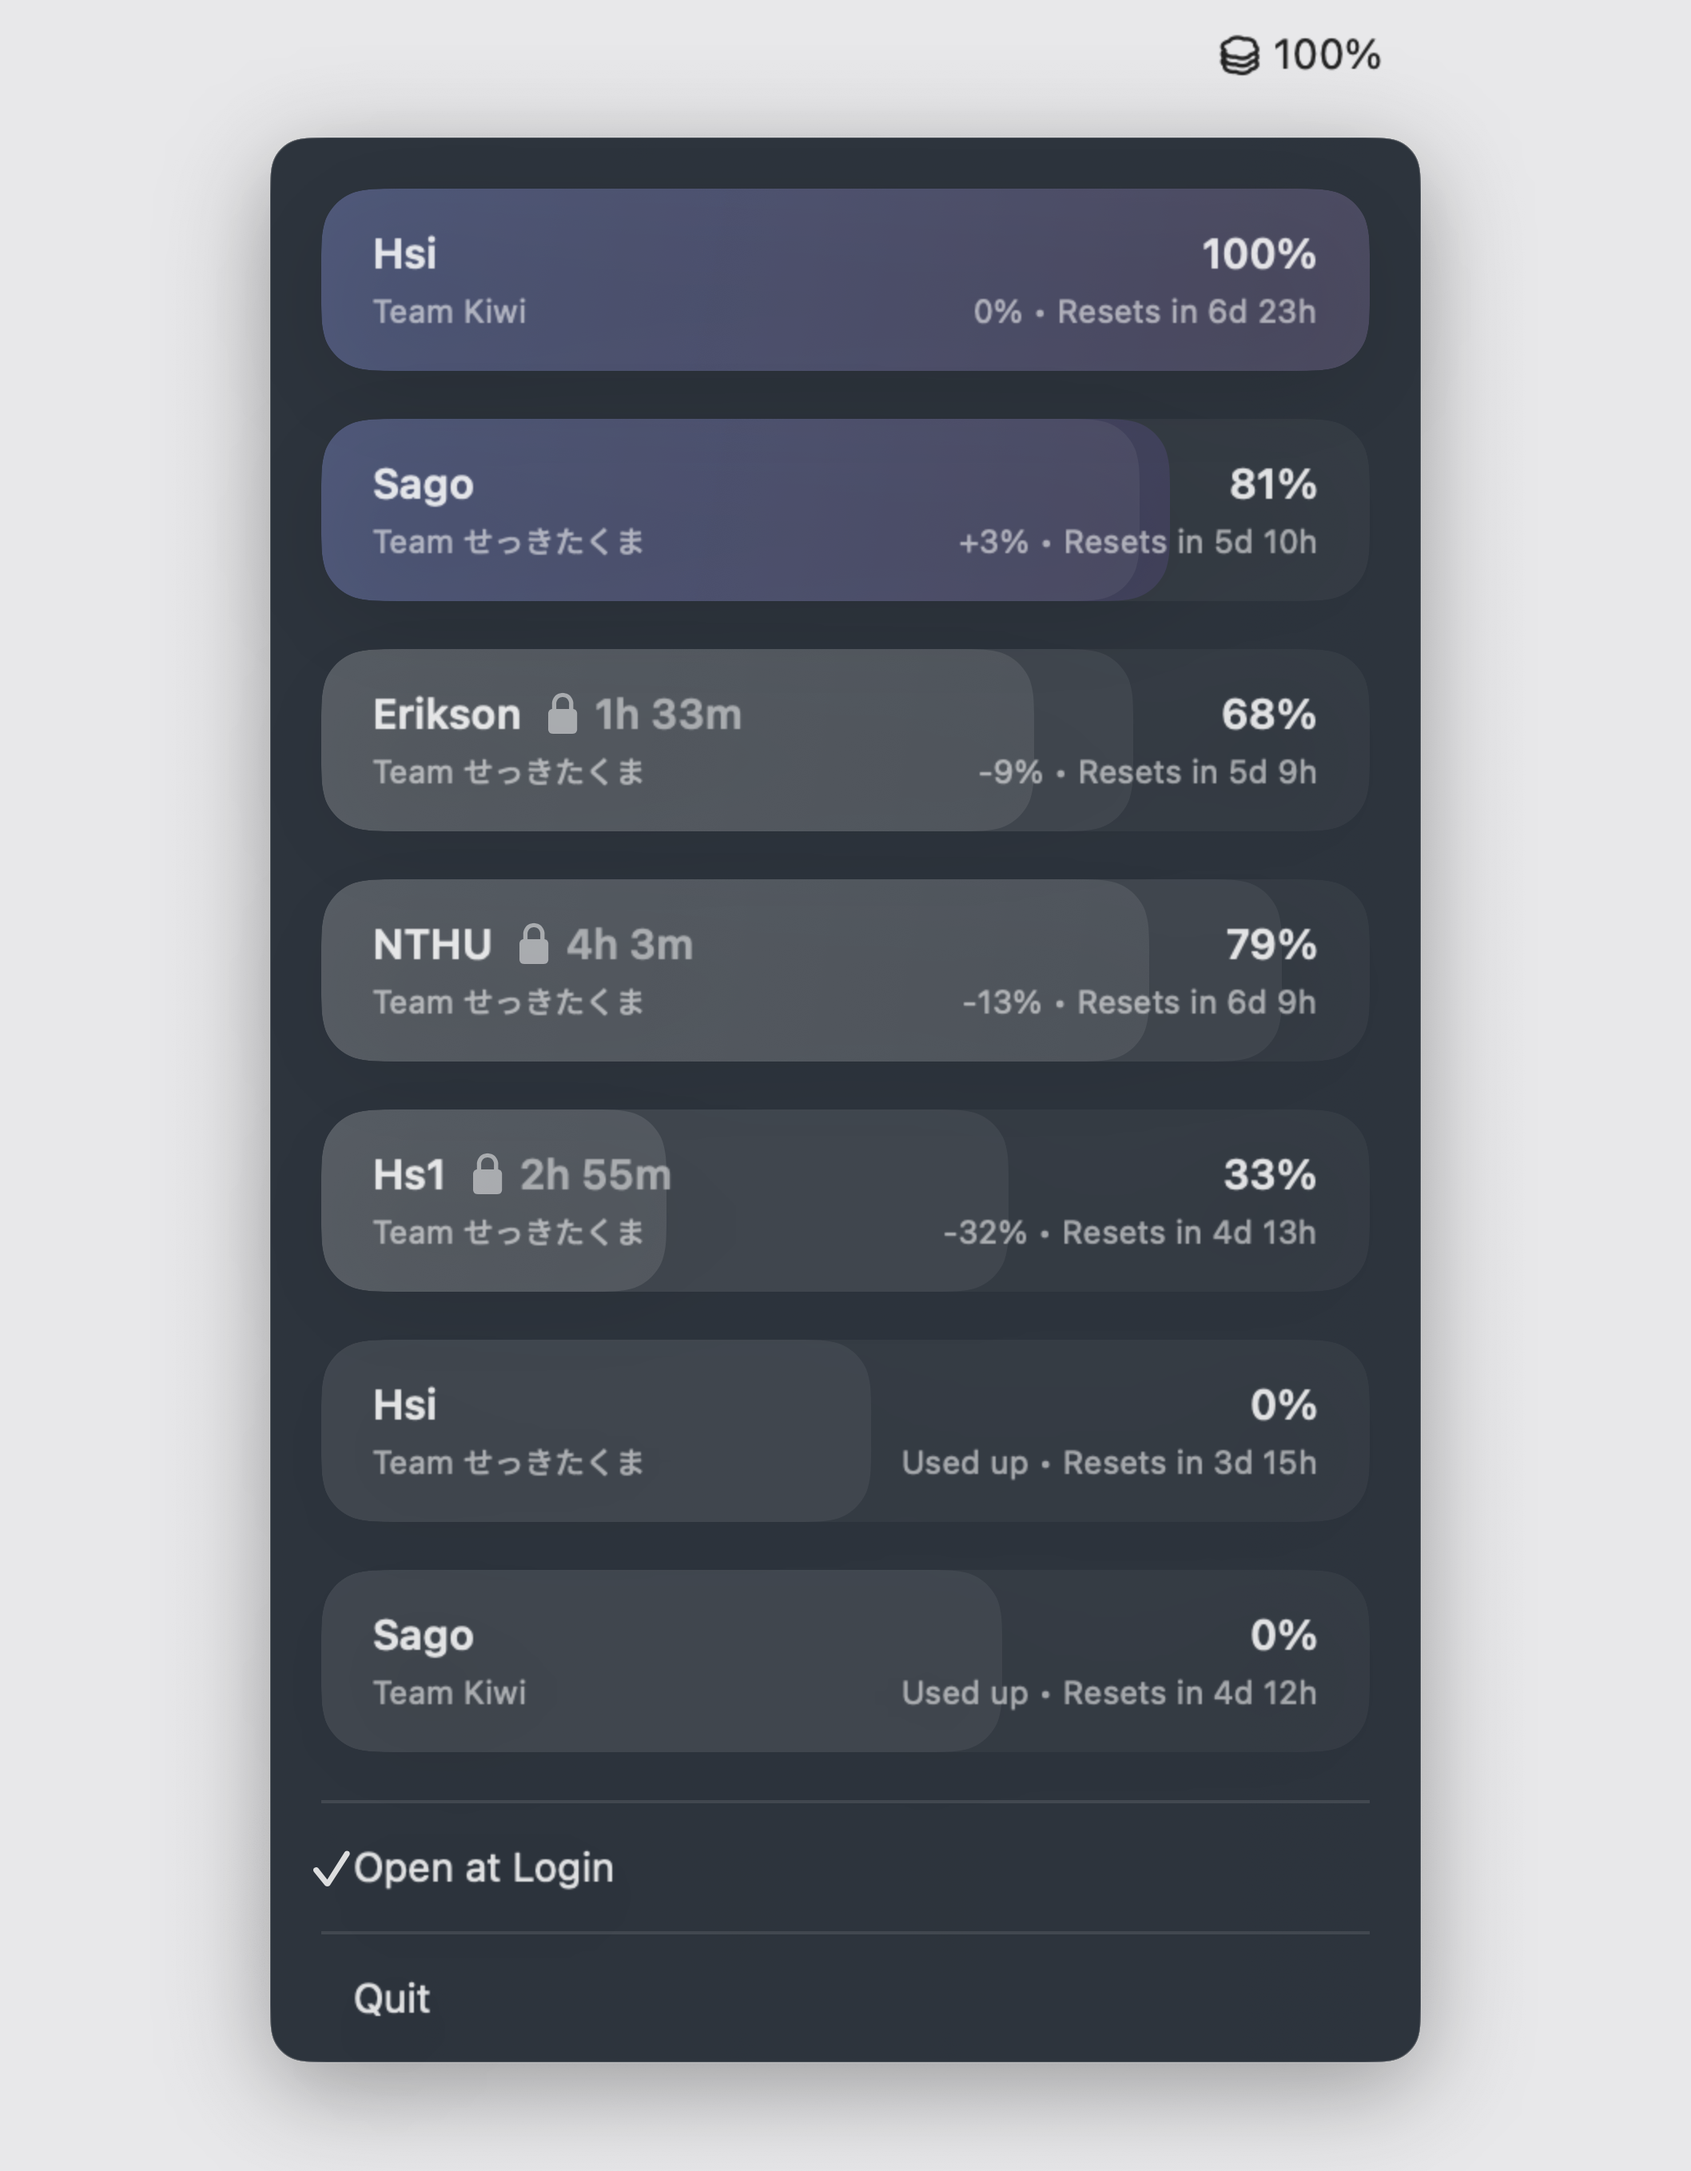
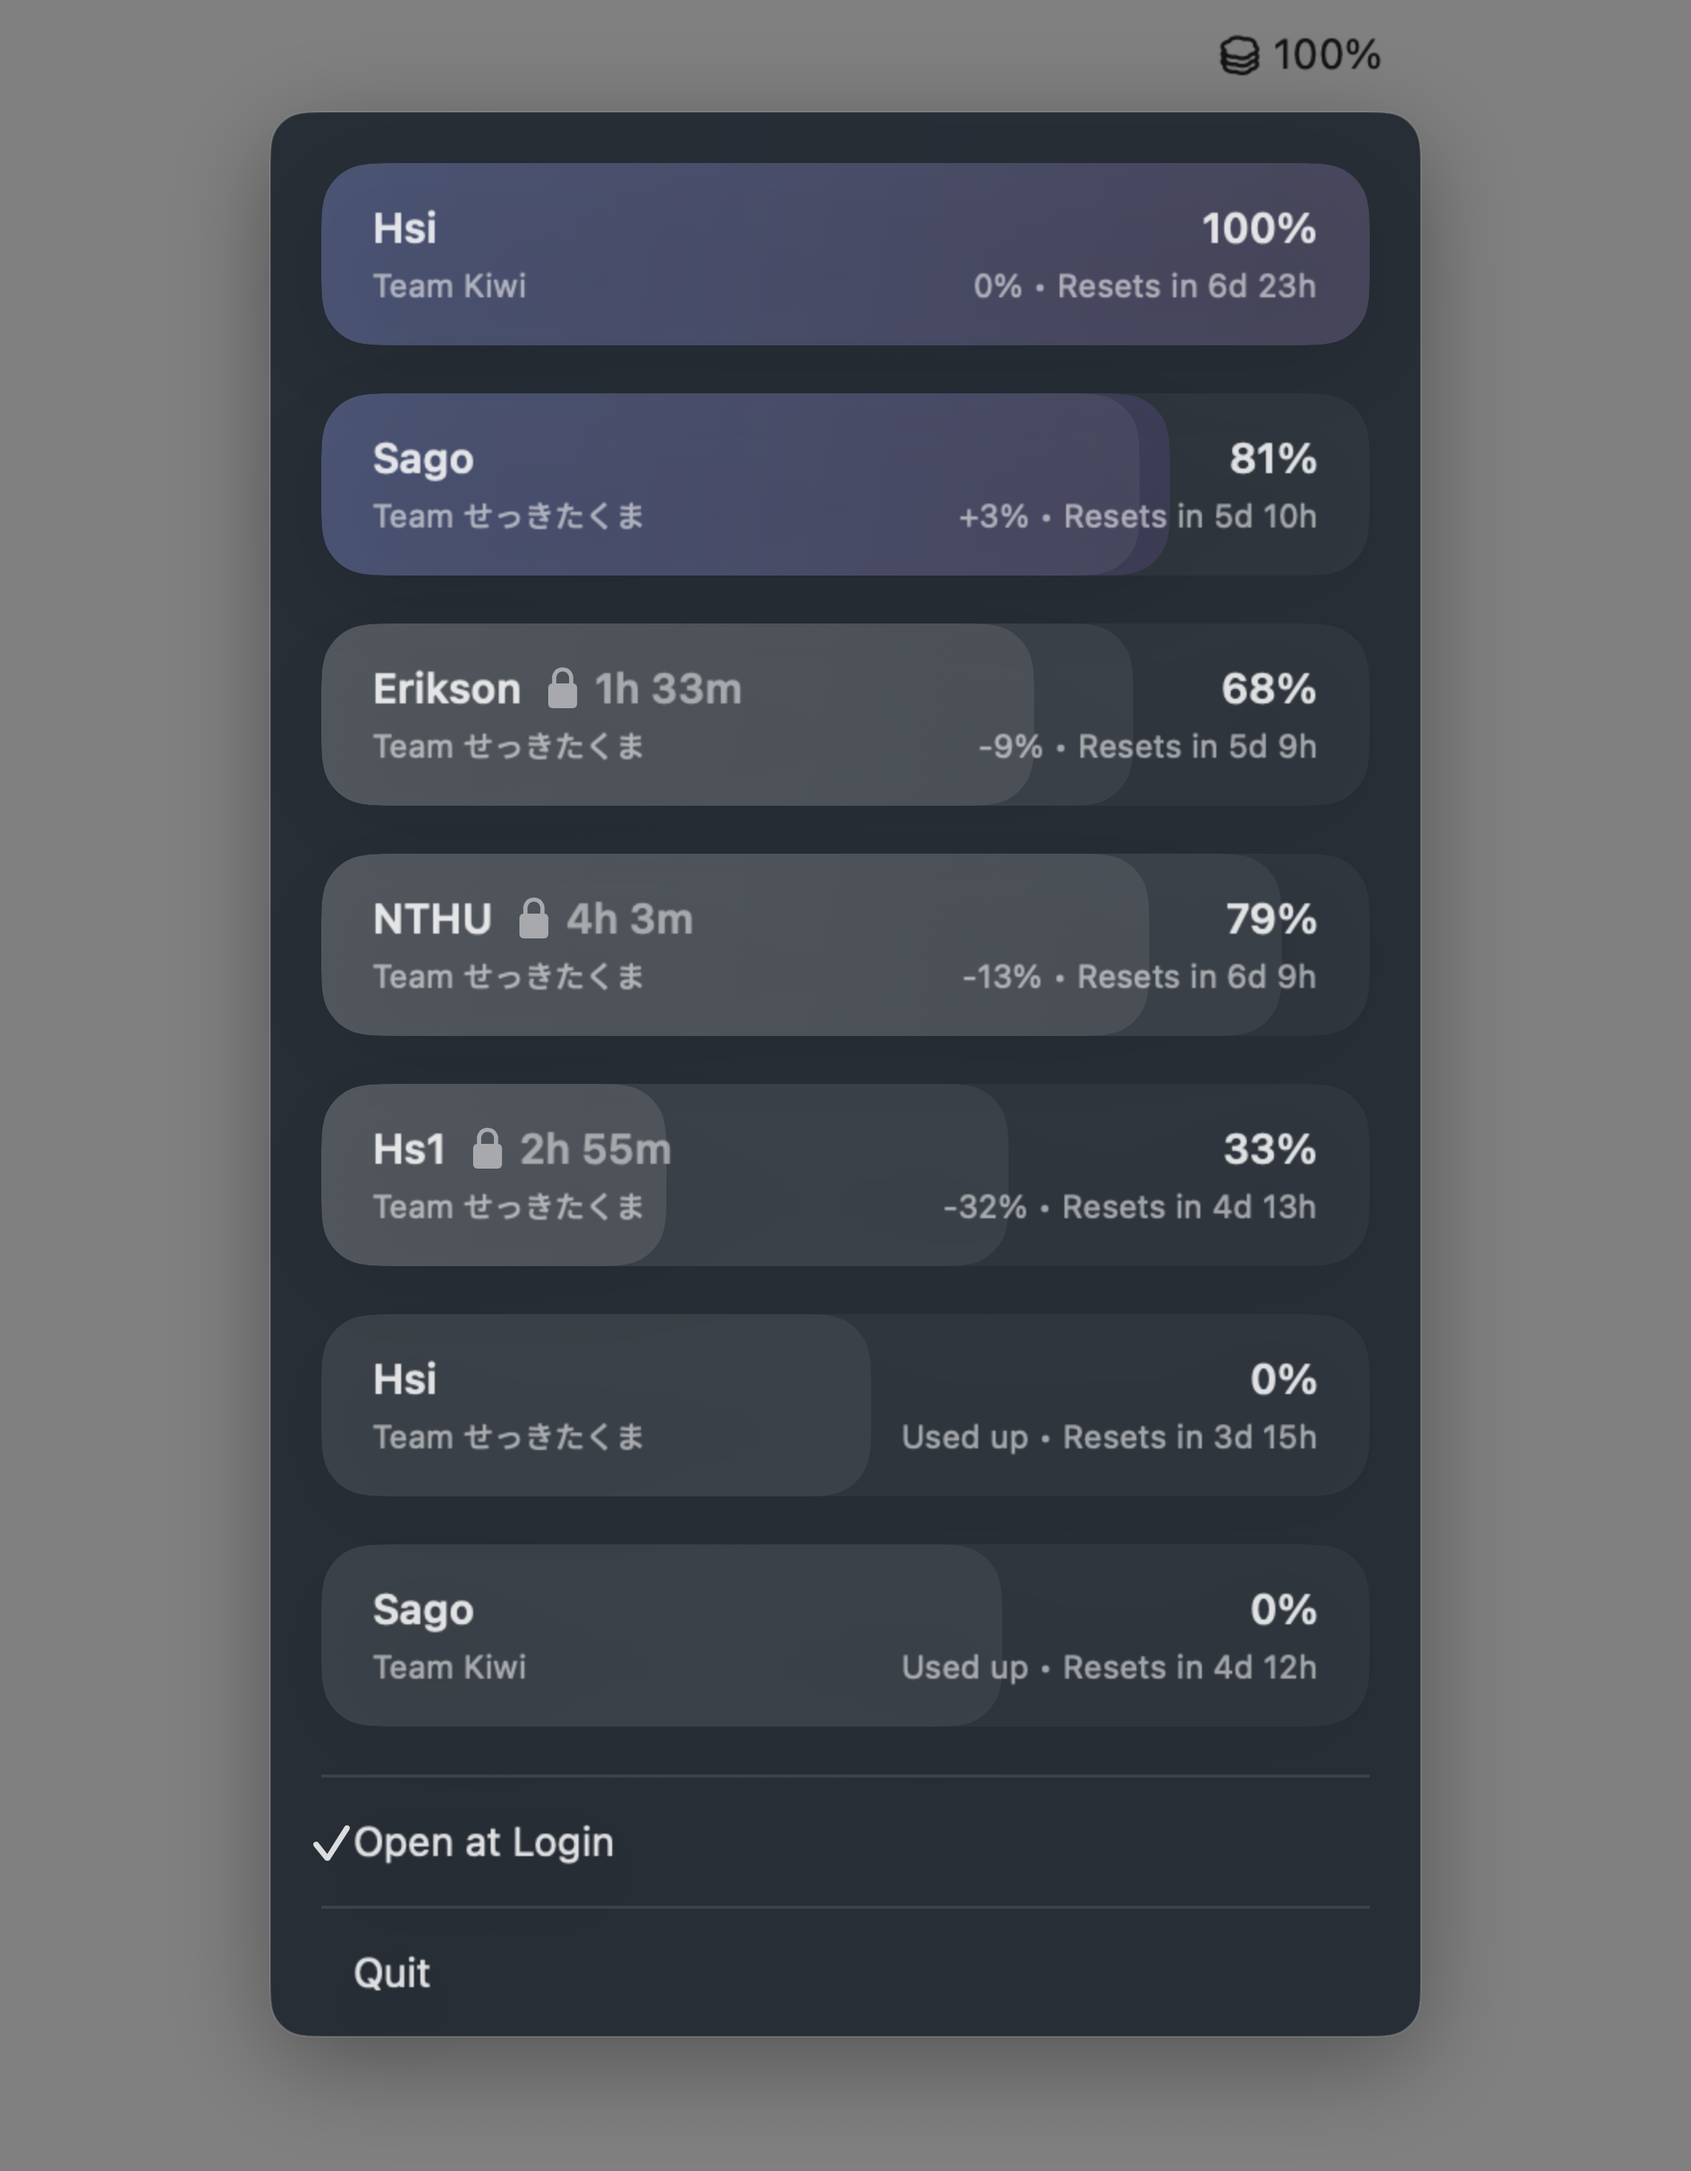
fix: balance demo mockup menu spacing

diff --git a/tools/DemoMockup.swift b/tools/DemoMockup.swift
@@ -11,8 +11,7 @@ private let menuBarHeight: CGFloat = 35
 private let panelWidth: CGFloat = 360
 private let panelHeight: CGFloat = 602
 private let panelLeading = (canvasSize.width - panelWidth) / 2
-private let panelMenuGap: CGFloat = 8
-private let panelTopOffset = menuBarHeight + panelMenuGap
+private let panelTopOffset = menuBarHeight
 private let panelCornerRadius: CGFloat = 12
 private let iconPath = "assets/icon.png"
 
@@ -43,7 +42,7 @@ private struct DemoMockupView: View {
 
     var body: some View {
         ZStack(alignment: .topLeading) {
-            Color(red: 0.91, green: 0.91, blue: 0.92)
+            Color(white: 0.5)
                 .ignoresSafeArea()
 
             Image(nsImage: menuBarItemImage)
